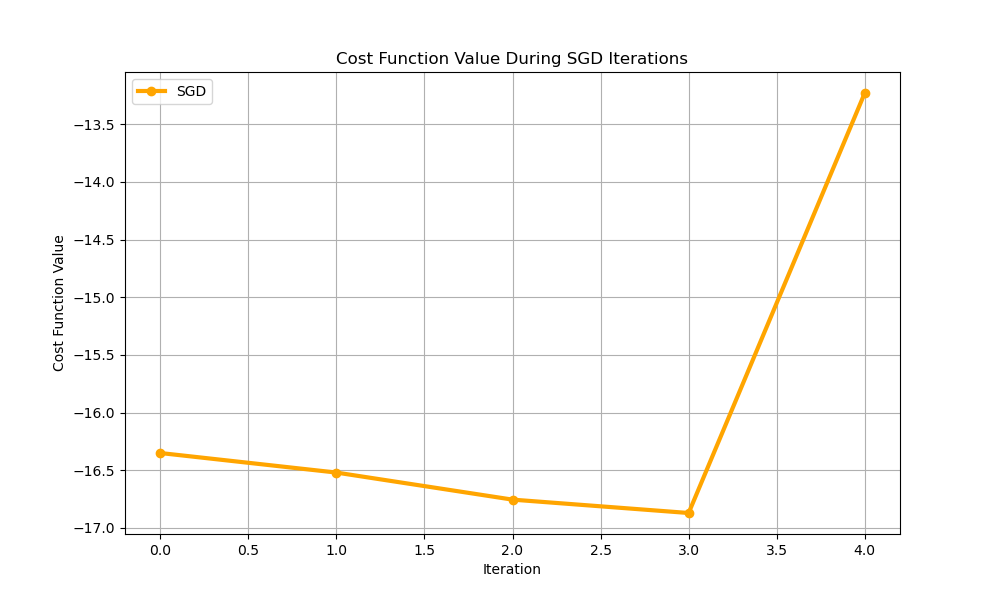
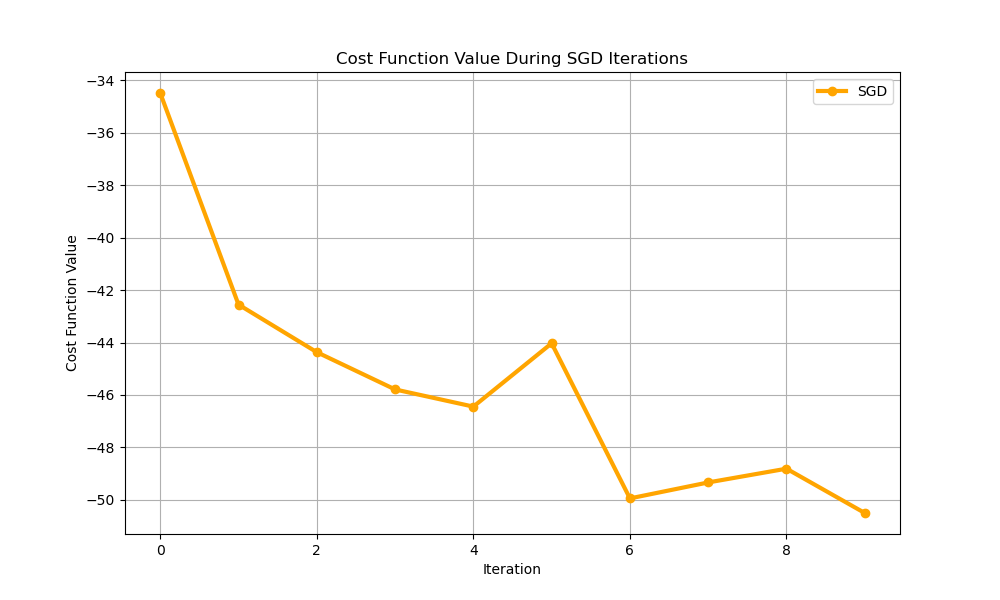
m

diff --git a/SGD.py b/SGD.py
@@ -43,14 +43,14 @@ test_graph = create_test_graph(15)
 graph_cost = qaoa_maxcut_graph(test_graph, n_layers=2)
 print(f"Number of nodes: {test_graph.number_of_nodes()}")
 # Parameters are initialized to ones
-n_layers = 2
-params_shape = (n_layers, 2)
-x = tf.Variable(tf.ones(params_shape))
-#x = tf.Variable(np.random.rand(2, 2))
+#n_layers = 2
+#params_shape = (n_layers, 2)
+#x = tf.Variable(tf.ones(params_shape))
+x = tf.Variable(np.random.rand(2, 2))
 
 # We set the optimizer to be a Stochastic Gradient Descent
 opt = tf.keras.optimizers.SGD(learning_rate=0.01)
-step = 5
+step = 10
 
 # Training process
 sdg_losses = []
@@ -59,7 +59,7 @@ for i in range(step):
     with tf.GradientTape(persistent=True) as tape:
         print('dentro il tape')
         loss = graph_cost(x)
-    print('i')
+    print(i)
     sdg_losses.append(loss.numpy().flatten()[0])
 
     gradients = tape.gradient(loss, [x])
